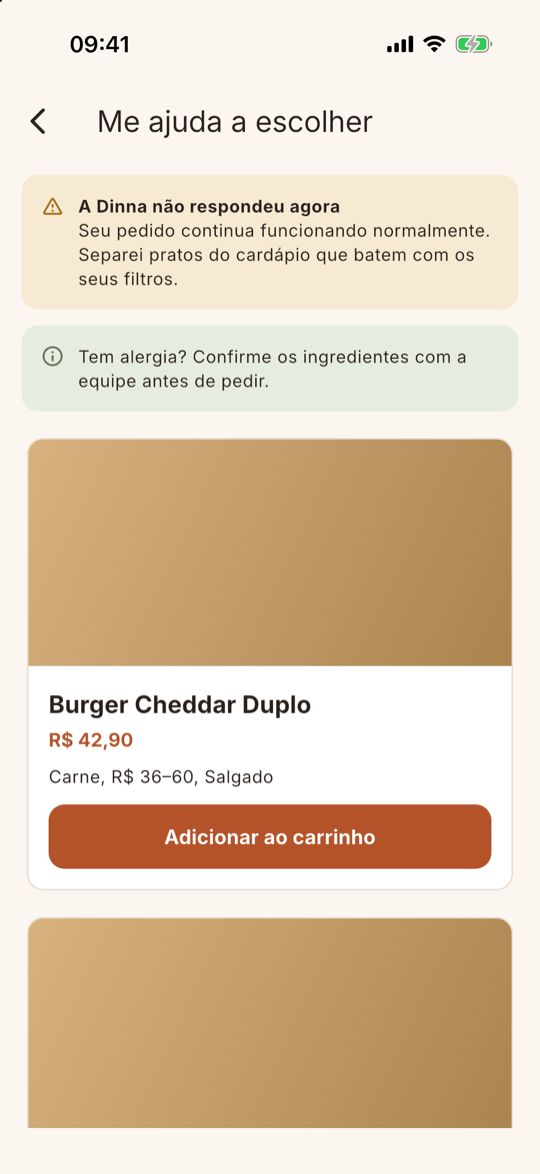
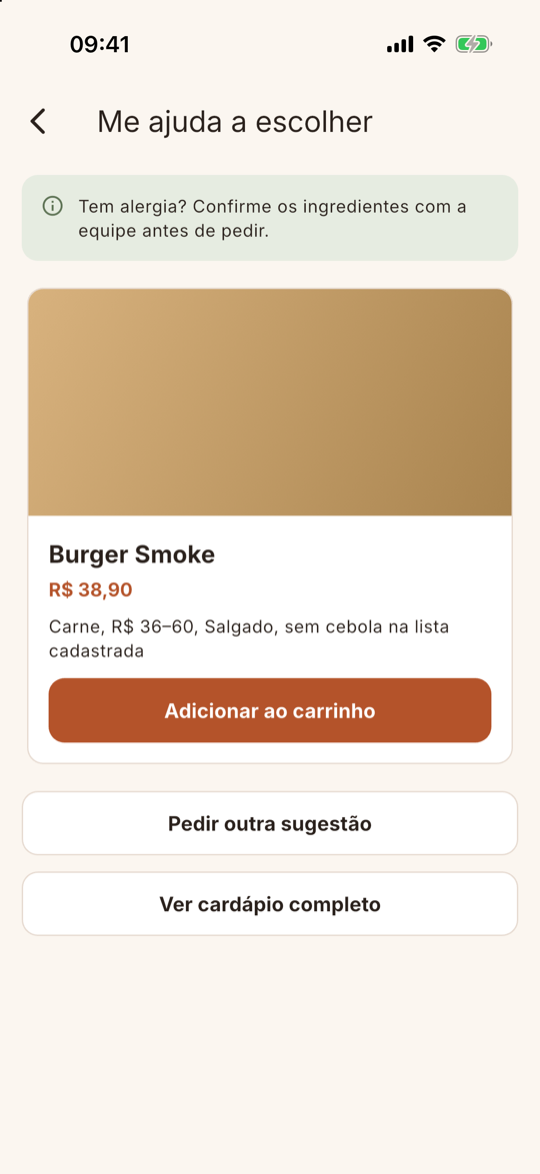
docs: registrar a recomendação validada com o provedor real
Substitui a captura de sugestões por uma escolha real do provedor e atualiza o roadmap e a tabela de funcionalidades, mantendo a chave opcional e o fallback determinístico.

diff --git a/README.md b/README.md
@@ -88,8 +88,8 @@ Capturas reais do app no iOS Simulator, conectado à API local com o cardápio d
   </tr>
   <tr>
     <td align="center" width="33%">
-      <img src="docs/assets/screenshots/04-sugestoes.png" alt="Sugestão de prato com o aviso A Dinna não respondeu agora, indicando o fallback do cardápio, e o Burger Cheddar Duplo com o motivo Carne, R$ 36–60, Salgado." width="240" /><br />
-      <sub><strong>Sugestões de pratos</strong><br />Fallback determinístico</sub>
+      <img src="docs/assets/screenshots/04-sugestoes.png" alt="Sugestão de prato escolhida pelo Gemini: Burger Smoke, R$ 38,90, com o motivo Carne, R$ 36–60, Salgado, sem cebola na lista cadastrada, e os botões Adicionar ao carrinho, Pedir outra sugestão e Ver cardápio completo." width="240" /><br />
+      <sub><strong>Sugestões de pratos</strong><br />Escolha pelo Gemini</sub>
     </td>
     <td align="center" width="33%">
       <img src="docs/assets/screenshots/05-carrinho.png" alt="Carrinho com 2 unidades do Burger Cheddar Duplo, total estimado de R$ 85,80 e o botão Enviar pedido." width="240" /><br />
@@ -102,7 +102,7 @@ Capturas reais do app no iOS Simulator, conectado à API local com o cardápio d
   </tr>
 </table>
 
-> A tela de sugestões foi capturada sem chave do Gemini no backend. Nesse caso, a API escolhe os pratos por regras determinísticas e o app avisa que “A Dinna não respondeu agora”: a lista **não** é gerada por IA. Com `GEMINI_API_KEY` válida e o provedor disponível, o backend pode usar o Gemini para escolher entre os pratos elegíveis do cardápio; o campo `provider` da resposta diz qual caminho foi usado.
+> A tela de sugestões mostra uma escolha real do Gemini (`provider: "answered"`), sempre limitada aos pratos elegíveis do cardápio. A chave é opcional: sem `GEMINI_API_KEY`, com timeout ou falha do provedor, a API escolhe os pratos por regras determinísticas e o app avisa que “A Dinna não respondeu agora”. Nesse caso a lista **não** é gerada por IA.
 
 ---
 
@@ -124,7 +124,7 @@ O Dinna encurta esse intervalo **sem substituir o atendimento humano**:
 
 ## 02 · Funcionalidades
 
-Legenda: ✅ implementado e coberto por testes automatizados · 🟡 implementado com ressalva · ⬜ planejado.
+Legenda: ✅ implementado e coberto por testes automatizados · ⬜ planejado.
 
 | Funcionalidade | Situação | Onde |
 |---|---|---|
@@ -136,7 +136,7 @@ Legenda: ✅ implementado e coberto por testes automatizados · 🟡 implementad
 | Envio do pedido | ✅ Envio idempotente (`Idempotency-Key`), nova tentativa em caso de erro e confirmação com número público | [`lib/features/client/order/`](lib/features/client/order/) |
 | Acompanhamento do pedido | ✅ Status atualizado a cada 5 s enquanto a tela está visível | [`lib/features/client/order/`](lib/features/client/order/) |
 | “Me ajuda a escolher” | ✅ Formulário, sugestões do cardápio, adicionar ao carrinho, pedir outra sugestão e preferências salvas | [`lib/features/recommendation/`](lib/features/recommendation/) |
-| Sugestão pelo Gemini | 🟡 Opcional, depende de `GEMINI_API_KEY` no backend. Coberto por testes com provedor simulado; uma resposta real com chave válida ainda não foi validada. Sem chave, com timeout ou falha do provedor, a API usa o fallback determinístico | [dinna-api](https://github.com/jeancarlosaps/dinna-api#recomendacao-de-pratos) |
+| Sugestão pelo Gemini | ✅ Validada com o provedor real pelo endpoint e pelo app. Opcional: depende de `GEMINI_API_KEY` no backend; sem chave, com timeout ou falha do provedor, a API usa o fallback determinístico | [dinna-api](https://github.com/jeancarlosaps/dinna-api#recomendacao-de-pratos) |
 | Fila do restaurante | ✅ Pedidos por status, atualização a cada 10 s, detalhe e avanço Recebido → Preparando → Pronto → Finalizado | [`lib/features/restaurant/`](lib/features/restaurant/) |
 | Cardápio do restaurante | ✅ Cadastro, edição e desativação de produtos | [`lib/features/restaurant/`](lib/features/restaurant/) |
 | Token de acesso à API | ✅ Header `X-Dinna-Api-Token` opcional, definido na compilação | [`lib/core/config/`](lib/core/config/) |
@@ -421,7 +421,7 @@ A recomendação respeita o campo `provider` da resposta. Com `answered`, a list
 ## 10 · Roadmap
 
 <p align="center">
-  <img src="docs/assets/readme/roadmap.svg" alt="Roadmap do Dinna. R0 Fundação entregue. R1 MVP Operacional funcional, com a rota /product provisória. R2 Dinna implementada com ressalva: Me ajuda a escolher, preferências e fallback prontos; o Gemini depende de chave. R3 Evoluções planejada." width="1600" loading="lazy" />
+  <img src="docs/assets/readme/roadmap.svg" alt="Roadmap do Dinna. R0 Fundação entregue. R1 MVP Operacional funcional, com a rota /product provisória. R2 Dinna implementada: Me ajuda a escolher, preferências salvas, escolha pelo Gemini com chave opcional e fallback determinístico. R3 Evoluções planejada." width="1600" loading="lazy" />
 </p>
 
 A ilustração e a tabela mostram a situação atual:
@@ -430,7 +430,7 @@ A ilustração e a tabela mostram a situação atual:
 |---|---|---|
 | **R0 · Fundação** | Projeto Flutter, MVVM, models, rotas, contrato REST, cliente HTTP, tema e persistência local | ✅ Implementada |
 | **R1 · MVP operacional** | Mesa, cardápio, detalhe, carrinho, envio e acompanhamento do pedido; fila, status e cardápio do restaurante | ✅ MVP funcional, com pendências abaixo |
-| **R2 · “Me ajuda a escolher”** | Preferências, sugestões do cardápio real, adicionar ao carrinho, outra sugestão e preferências salvas | 🟡 Implementada com fallback determinístico; a escolha pelo Gemini depende de chave e ainda não foi validada com o provedor real |
+| **R2 · “Me ajuda a escolher”** | Preferências, sugestões do cardápio real, adicionar ao carrinho, outra sugestão e preferências salvas | ✅ Implementada; escolha pelo Gemini validada com o provedor real e fallback determinístico |
 | **R3 · Evoluções** | Leitura da mesa por QR Code e demais melhorias | ⬜ Planejada |
 
 Pendências técnicas conhecidas:
